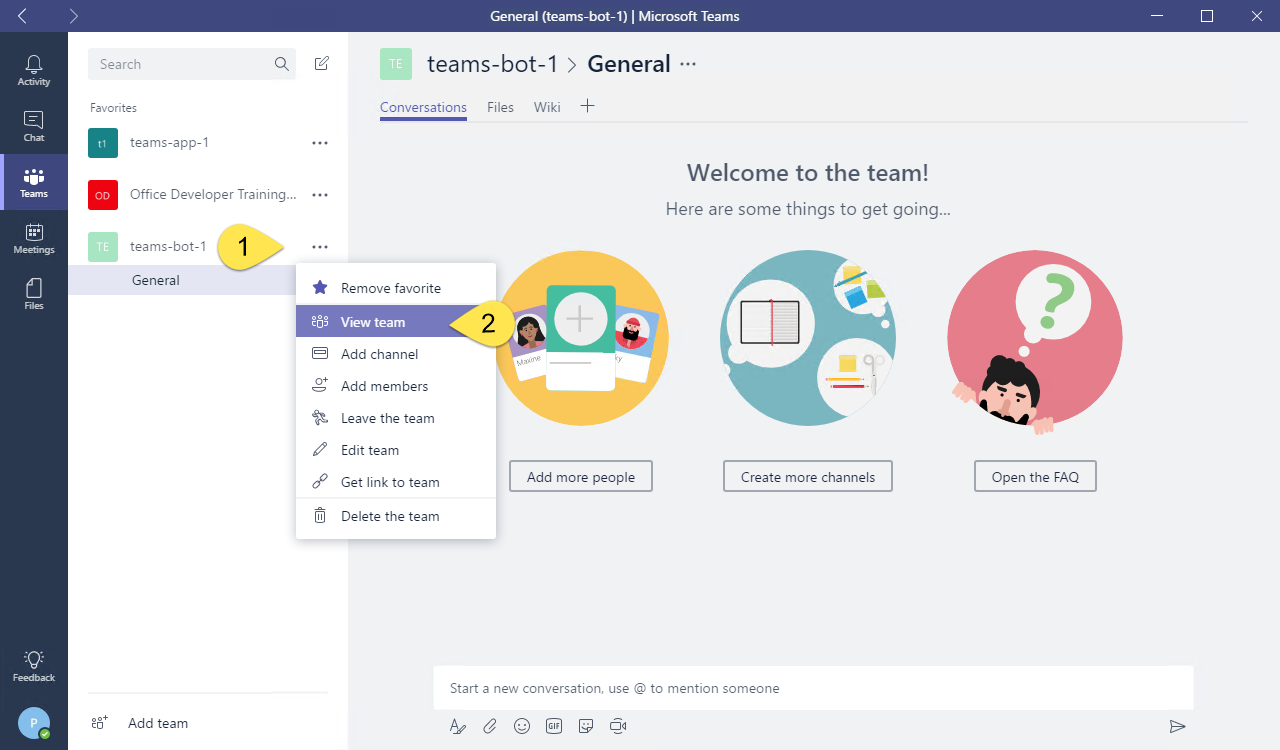
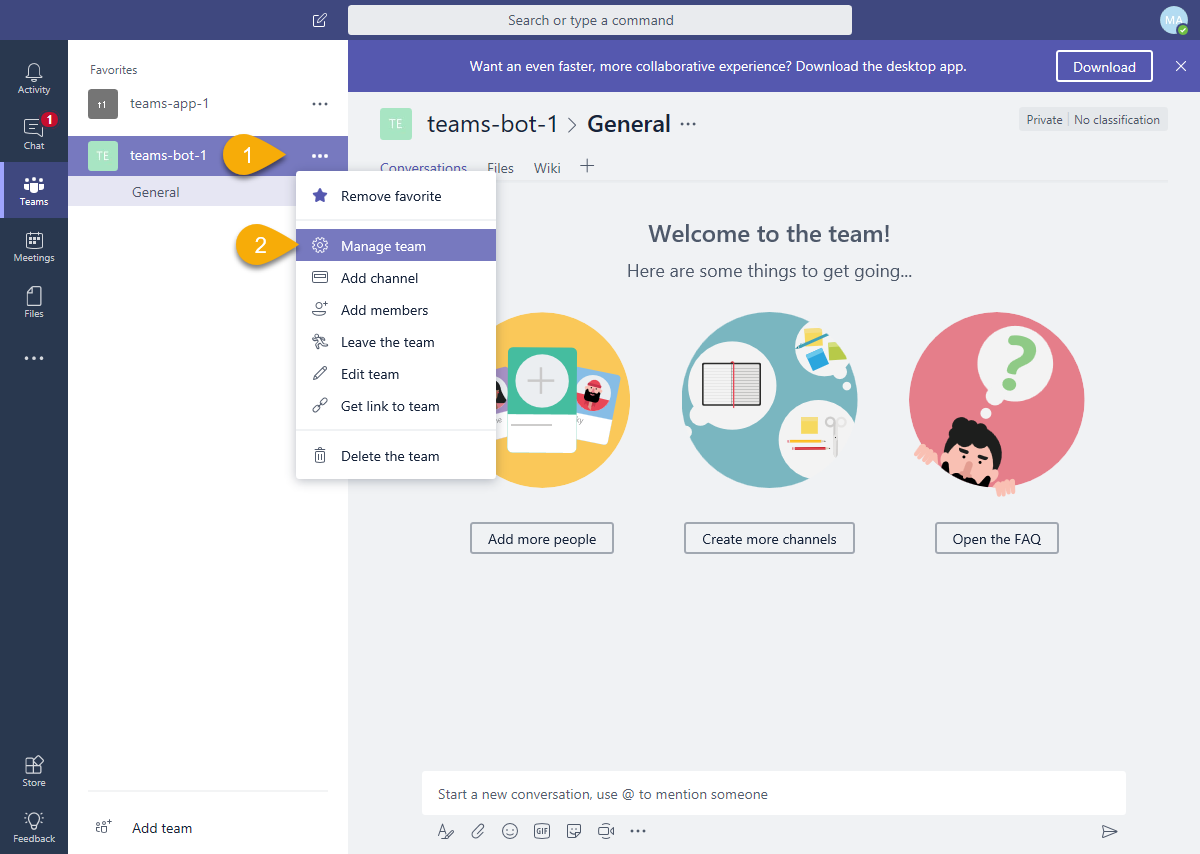
teams-m05-201803-refresh
- ran lab
- verified & updated where appropriate screenshots and instructions are current

diff --git a/Teams/05 Microsoft Teams apps - Advanced Techniques/Demos/03 - teams-bot2/teams-bot2/Controllers/ConnectorController.cs b/Teams/05 Microsoft Teams apps - Advanced Techniques/Demos/03 - teams-bot2/teams-bot2/Controllers/ConnectorController.cs
@@ -18,9 +18,7 @@ namespace teams_bot2.Controllers
 			var htmlBody = "<html><title>Set up connector</title><body>";
 			htmlBody += "<H2>Adding your Connector Portal-registered connector</H2>";
 			htmlBody += "<p>Click the button to initiate the registration and consent flow for the connector in the selected channel.</p>";
-			htmlBody += "<a href='https://outlook.office.com/connectors/Connect?state=myAppsState&app_id=[ConnectorID]&callback_url=[copy-from-ngrok]/api/connector/redirect'>";
-			htmlBody += "<img src='https://o365connectors.blob.core.windows.net/images/ConnectToO365Button.png' alt='Connect to Office 365'></img >";
-			htmlBody += "</a>";
+			htmlBody += "";
 
 			var response = Request.CreateResponse(HttpStatusCode.OK);
 			response.Content = new StringContent(htmlBody);

diff --git a/Teams/05 Microsoft Teams apps - Advanced Techniques/Lab.md b/Teams/05 Microsoft Teams apps - Advanced Techniques/Lab.md
@@ -1,4 +1,5 @@
 # Microsoft Teams apps - Advanced Techniques
+
 In this lab, you will use advanced techniques to build a more-sophisticated bot, a compose extension and a Microsoft Teams app that has multiple components.
 
 ## Table of Contents
@@ -9,9 +10,10 @@ In this lab, you will use advanced techniques to build a more-sophisticated bot,
 
 ## Prerequisites
 
-Refer to the Prerequisites section in the [lab manual for Module 4](../04 Fundamentals of Microsoft Teams).
+Refer to the Prerequisites section in the [lab manual for Module 4](../04 Fundamentals of Microsoft Teams/Lab.md#prerequisites).
 
 <a name="exercise1"></a>
+
 ## Exercise 1: Advanced Teams Bot capabilities
 
 This section of the lab creates a Bot Framework bot and extends it with Microsoft Teams functionality. In this exercise, you will create a bot to interact with the Teams API.
@@ -51,9 +53,8 @@ Before registering the bot, note the URL configured for the solution in Visual S
 
 ### Register the bot
 
-1. Go to the Microsoft Bot Framework portal at https://dev.botframework.com and sign in. (The bot registration portal accepts a Work or School Account or a Microsoft Account.)
-1. Click **Register**. (If the Register button is not shown, click **My bots** in the top navigation.)
-1. Complete the Bot profile section, entering a Display name, Bot handle and description.
+1. Go to the Microsoft Bot Framework portal at https://dev.botframework.com/bots/new and sign in. (The bot registration portal accepts a Work or School Account or a Microsoft Account.)
+1. Complete the Bot profile section, entering a Display name, unique Bot handle and description.
 
     ![](Images/Exercise1-04.png)
 
@@ -99,7 +100,7 @@ Packaging a bot for Microsoft Teams requires that a manifest file (and related r
 
 Perform the following in Visual Studio.
 
-1.  Right-click on the project, choose Add | New Folder. Name the folder **Manifest**.
+1. Right-click on the project, choose Add | New Folder. Name the folder **Manifest**.
 1. Add the displayed files from the **Lab Files** folder of this repository.
 
     ![](Images/Exercise1-08.png)
@@ -177,18 +178,18 @@ Perform the following in Visual Studio.
 
 The Microsoft Teams engineering group built and maintains extensions to the Bot Builder SDK. These packages (for .Net  and Node.js) extend the basic Bot Builder classes and methods with the following:
 
-* Specialized Teams card types like the Office 365 Connector card
-* Consuming and setting Teams-specific channel data on activities
-* Processing compose extension requests
-* Handling rate limiting
+- Specialized Teams card types like the Office 365 Connector card
+- Consuming and setting Teams-specific channel data on activities
+- Processing compose extension requests
+- Handling rate limiting
 
 Both packages install dependencies, including the Bot Builder SDK.
 
 In Visual Studio, install the **Microsoft.Bot.Connector.Teams** package via the **Package Manager Console**:
 
-```powershell
-Install-Package Microsoft.Bot.Connector.Teams
-```
+  ```powershell
+  Install-Package Microsoft.Bot.Connector.Teams
+  ```
 
 ### Update bot to send 1:1 message when added and to new team members
 
@@ -336,11 +337,11 @@ Although not strictly necessary, in this lab the bot will be added to a new Team
 
 1. Enter a team name and description. In this example, the Team is named **teams-bot-1**. Click **Next**.
 1. Optionally, invite others from your organization to the team. This step can be skipped in this lab.
-1. The new team is shown. In the left-side panel, click the ellipses next to the team name. Choose **View team** from the context menu.
+1. The new team is shown. In the left-side panel, click the ellipses next to the team name. Choose **Manage team** from the context menu.
 
     ![](Images/Exercise1-12.png)
 
-1. On the View team display, click **Apps** in the tab strip. Then click the **Sideload an app** link at the bottom right corner of the application.
+1. On the Manage team display, click **Apps** in the tab strip. Then click the **Upload a custom app** link at the bottom right corner of the application.
 1. Select the zip file (**teams-bot1.zip** in this example) from the *bin* folder. Click **Open**.
 1. The app is displayed. Notice information about the app from the manifest (Description and Icon) is displayed.
 
@@ -625,7 +626,11 @@ This section of the lab extends the bot from Exercise 1 with Microsoft Teams fun
           break;
 
         case ActivityTypes.Invoke:
-          await ComposeHelpers.HandleInvoke(activity);
+          var composeResponse = await ComposeHelpers.HandleInvoke(activity);
+          var stringContent = new StringContent(composeResponse);
+          HttpResponseMessage httpResponseMessage = new HttpResponseMessage(HttpStatusCode.OK);
+          httpResponseMessage.Content = stringContent;
+          return httpResponseMessage;
           break;
 
         default:
@@ -816,6 +821,7 @@ The Compose Extension is configured for use in a Channel (due to the scopes ente
 This concludes Exercise 2.
 
 <a name="exercise3"></a>
+
 ## Exercise 3: Microsoft Teams Apps with multiple capabilities
 
 This section of the lab creates a Microsoft Teams app from the Tab and Bot created previously along with a connector.
@@ -832,7 +838,7 @@ In Microsoft Teams, full functionality for Office 365 Connectors is restricted t
 
     ![](Images/Exercise3-01.png)
 
-1. Select **Incoming Webhook** from the list, then click **Add**.
+1. Find **Incoming Webhook** in the list, click **Add** then **Install**.
 
   ![](Images/Exercise3-02.png)
 
@@ -848,8 +854,8 @@ In Microsoft Teams, full functionality for Office 365 Connectors is restricted t
 
     ```powershell
     $message = Get-Content .\sample-connector-message.json
-    $url = <YOUR WEBHOOK URL>
-    Invoke-RestMethod -ContentType="application/json" -Body $message -Uri <YOUR WEBHOOK URL> -Method Post
+    $url = "<YOUR WEBHOOK URL>"
+    Invoke-RestMethod -ContentType "application/json" -Body $message -Uri $url -Method Post
     ```
 
     ![](Images/Exercise3-03.png)
@@ -872,12 +878,13 @@ In Microsoft Teams, full functionality for Office 365 Connectors is restricted t
 1. Minimize the ngrok Command Prompt window. It is no longer referenced in this lab, but it must remain running.
 
 ### Office 365 Connector registration
+
 The following steps are used to register an Office 365 Connector.
 
 1. Register the Connector on the [Connectors Developer Dashboard](https://go.microsoft.com/fwlink/?LinkID=780623). Log on the the site and click **New Connector**.
 1. On the **New Connector** page:
 
-    1. Complete the Name and Description as appropriate for your connector.
+    1. Complete the Name and Description as appropriate for your connector. Upload the **bot-icon-blue-300x300.png** from the Lab Files folder for your logo.
 
         ![](Images/Exercise3-05.png)
 
@@ -897,7 +904,7 @@ The following steps are used to register an Office 365 Connector.
 
     1. Agree to the terms and conditions and click **Save**
 
-1. The registration page will refresh with additional buttons in the integration section. The buttons provide sample code for the **Landing** page and a `manifest.json` file for a Teams app. Save both of these assets.
+1. The registration page will refresh with additional buttons in the integration section. The buttons provide sample code for the **Landing** page and a `manifest.json` file for a Teams app. Save both of these assets. In a text editor paste the Landing page code copied from the registration page and replace all of the double quotes `"` with the single quote character `'`. You will need this code in a moment.
 
 ### Add Connector to existing Bot
 
@@ -924,7 +931,7 @@ In Visual Studio 2017, open the **teams-bot2** solution from the `Demos/02 - tea
     using System.Net.Http.Headers;
     ```
 
-1. Add the following `Landing` method to the `ConnectorController`.
+1. Add the following `Landing` method to the `ConnectorController` class.
 
     ```cs
     [HttpGet]
@@ -933,9 +940,7 @@ In Visual Studio 2017, open the **teams-bot2** solution from the `Demos/02 - tea
       var htmlBody = "<html><title>Set up connector</title><body>";
       htmlBody += "<H2>Adding your Connector Portal-registered connector</H2>";
       htmlBody += "<p>Click the button to initiate the registration and consent flow for the connector in the selected channel.</p>";
-      htmlBody += "<a href='https://outlook.office.com/connectors/Connect?state=myAppsState&app_id=ef5b13e5-261c-47f3-a7a8-6f00ef3b9930&callback_url=https://1ad3dcd5.ngrok.io/api/connector/redirect'>";
-      htmlBody += "<img src='https://o365connectors.blob.core.windows.net/images/ConnectToO365Button.png' alt='Connect to Office 365'></img >";
-      htmlBody += "</a>";
+      htmlBody += "[Landing Page Code]";
 
       var response = Request.CreateResponse(HttpStatusCode.OK);
       response.Content = new StringContent(htmlBody);
@@ -943,7 +948,7 @@ In Visual Studio 2017, open the **teams-bot2** solution from the `Demos/02 - tea
       return response;
     }
     ```
-
+1. Replace the `[Landing Page Code]` token with the landing page code you edited previously.
 1. Add the following `Redirect` method to the `ConnectorController` class.
 
     ```cs
@@ -989,11 +994,11 @@ In Visual Studio 2017, open the **teams-bot2** solution from the `Demos/02 - tea
 
     ![](Images/Exercise3-10.png)
 
-1. Click the **Connect to Office 365** button. Office 365 will process the registration flow, which may include login and Team/Channel selection. Make note of teh selected Teamd-Channel and click **Allow**.
+1. Click the **Connect to Office 365** button. Office 365 will process the registration flow, which may include login and Team/Channel selection. Make note of the selected Team-Channel and click **Allow**.
 
     ![](Images/Exercise3-12.png)
 
-1. The dialog will display the **Redirect** action which presents the information registration provided by Office 365. In a production application, this information must be presisted and used to sent notifications to the channel.
+1. The dialog will display the **Redirect** action which presents the information registration provided by Office 365. In a production application, this information must be persisted and used to sent notifications to the channel.
 
     ![](Images/Exercise3-13.png)
 

diff --git a/Teams/05 Microsoft Teams apps - Advanced Techniques/Demos/03 - teams-bot2/Readme.md b/Teams/05 Microsoft Teams apps - Advanced Techniques/Demos/03 - teams-bot2/Readme.md
@@ -27,9 +27,9 @@ To run this demo, perform the following steps from the lab:
 
 ### Register the bot ###
 
-1. Go to the Microsoft Bot Framework portal at https://dev.botframework.com and sign in. (The bot registration portal accepts a Work or School Account or a Microsoft Account.)
-1. Click **Register**. (If the Register button is not shown, click **My bots** in the top navigation.)
-1. Complete the Bot profile section, entering a Display name, Bot handle and description.
+1. Go to the Microsoft Bot Framework portal at https://dev.botframework.com/bots/new and sign in. (The bot registration portal accepts a Work or School Account or a Microsoft Account.)
+
+1. Complete the Bot profile section, entering a Display name, unique Bot handle and description.
 
     ![](../../Images/Exercise1-04.png)
 
@@ -64,7 +64,7 @@ The following steps are used to register an Office 365 Connector.
 1. Register the Connector on the [Connectors Developer Dashboard](https://go.microsoft.com/fwlink/?LinkID=780623). Log on the the site and click **New Connector**.
 1. On the **New Connector** page:
 
-    1. Complete the Name and Description as appropriate for your demo.
+    1. Complete the Name and Description as appropriate for your demo. Upload the **bot-icon-blue-300x300.png** from the Lab Files folder for your logo.
 
         ![](../../Images/Exercise3-05.png)
 
@@ -84,7 +84,7 @@ The following steps are used to register an Office 365 Connector.
 
     1. Agree to the terms and conditions and click **Save**
 
-1. The registration page will refresh with additional buttons in the integration section. The buttons provide sample code for the **Landing** page and a `manifest.json` file for a Teams app. **Save both of these assets.**
+1. The registration page will refresh with additional buttons in the integration section. The buttons provide sample code for the **Landing** page and a `manifest.json` file for a Teams app. **Save both of these assets.** In a text editor paste the Landing page code copied from the registration page and replace all of the double quotes `"` with the single quote character `'`. You will need this code in a moment.
 
 ### Configure the web project
 
@@ -110,17 +110,18 @@ Packaging a bot for Microsoft Teams requires that a manifest file (and related r
     - The `botId` property (in the `bots` collection property) also requires the app ID from registration. Replace the token `[microsoft-app-id]` with the app ID.
     - Replace the empty `connectors` node in the `manifest.json` file with the `connectors` node from the manifest downloaded from the Connector registration.
     - Save and close the `manifest.json` file.
+1. Open the `Controllers\ConnectorController.cs` file and replace the `[Landing Page Code]` token with the landing page code you edited previously.
 1. Press **Ctrl+Shift+B** to build the project. The build will create a zip file in the build output folder (bin\\).
 
 ## Start the demo
 
 ### Sideload app into Microsoft Teams
 
-1. In the Microsoft Teams application, in the left-side panel, click the ellipses next to the team name. Choose **View team** from the context menu.
+1. In the Microsoft Teams application, in the left-side panel, click the ellipses next to the team name. Choose **Manage team** from the context menu.
 
     ![](../../Images/Exercise1-12.png)
 
-1. On the View team display, click **Apps** in the tab strip. Then click the **Sideload an app** link at the bottom right corner of the application.
+1. On the Manage team display, click **Apps** in the tab strip. Then click the **Upload a custom app** link at the bottom right corner of the application.
 1. Select the zip file (**teams-bot1.zip** in this example) from the `bin` folder. Click **Open**.
 1. The app is displayed. Notice information about the app from the manifest (Description and Icon) is displayed.
 
@@ -144,11 +145,11 @@ All members of the team should get a 1:1 message.
 
     ![](../../Images/Exercise3-10.png)
 
-1. Click the **Connect to Office 365** button. Office 365 will process the registration flow, which may include login and Team/Channel selection. Make note of teh selected Teamd-Channel and click **Allow**.
+1. Click the **Connect to Office 365** button. Office 365 will process the registration flow, which may include login and Team/Channel selection. Make note of the selected Team-Channel and click **Allow**.
 
     ![](../../Images/Exercise3-12.png)
 
-1. The dialog will display the **Redirect** action which presents the information registration provided by Office 365. In a production application, this information must be presisted and used to sent notifications to the channel.
+1. The dialog will display the **Redirect** action which presents the information registration provided by Office 365. In a production application, this information must be persisted and used to sent notifications to the channel.
 
     ![](../../Images/Exercise3-13.png)
 

diff --git a/Teams/05 Microsoft Teams apps - Advanced Techniques/Demos/01 - teams-bot2/Readme.md b/Teams/05 Microsoft Teams apps - Advanced Techniques/Demos/01 - teams-bot2/Readme.md
@@ -2,7 +2,7 @@
 
 There are multiple demos in this section. The code in the Demos folder and these setup steps are the same for both demos.
 
-# Demo Setup
+## Demo Setup
 
 To setup the demos, perform the following steps from the lab:
 
@@ -31,9 +31,8 @@ To setup the demos, perform the following steps from the lab:
 
 ### Register the bot
 
-1. Go to the Microsoft Bot Framework portal at https://dev.botframework.com and sign in. (The bot registration portal accepts a Work or School Account or a Microsoft Account.)
-1. Click **Register**. (If the Register button is not shown, click **My bots** in the top navigation.)
-1. Complete the Bot profile section, entering a Display name, Bot handle and description.
+1. Go to the Microsoft Bot Framework portal at https://dev.botframework.com/bots/new and sign in. (The bot registration portal accepts a Work or School Account or a Microsoft Account.)
+1. Complete the Bot profile section, entering a Display name, unique Bot handle and description.
 
     ![](../../Images/Exercise1-04.png)
 
@@ -87,15 +86,15 @@ Packaging a bot for Microsoft Teams requires that a manifest file (and related r
 
 1. Press **Ctrl+Shift+B** to build the project. The build will create a zip file in the build output folder (`bin`).
 
-# Demo: Responding to Events
+## Demo: Responding to Events
 
 ### Sideload app into Microsoft Teams
 
-1. In the Microsoft Teams application, in the left-side panel, click the ellipses next to the team name. Choose **View team** from the context menu.
+1. In the Microsoft Teams application, in the left-side panel, click the ellipses next to the team name. Choose **Manage team** from the context menu.
 
     ![](../../Images/Exercise1-12.png)
 
-1. On the View team display, click **Apps** in the tab strip. Then click the **Sideload an app** link at the bottom right corner of the application.
+1. On the Manage team display, click **Apps** in the tab strip. Then click the **Upload a custom app** link at the bottom right corner of the application.
 1. Select the zip file (`teams-bot1.zip` in this example) from the `bin` folder. Click **Open**.
 1. The app is displayed. Notice information about the app from the manifest (Description and Icon) is displayed.
 
@@ -111,7 +110,7 @@ Adding the bot to a team invokes the system message **ConversationUpdated**. The
 
 Code for responding to events is in the `MessagesController` class.
 
-# Demo: Advanced Message Features
+## Demo: Advanced Message Features
 
 Perform the following in a channel where the bot has been sideloaded. Be sure to @ mention the bot in each message
 

diff --git a/Teams/05 Microsoft Teams apps - Advanced Techniques/Demos/02 - teams-bot2/Readme.md b/Teams/05 Microsoft Teams apps - Advanced Techniques/Demos/02 - teams-bot2/Readme.md
@@ -27,9 +27,8 @@ To run this demo, perform the following steps from the lab:
 
 ### Register the bot
 
-1. Go to the Microsoft Bot Framework portal at https://dev.botframework.com and sign in. (The bot registration portal accepts a Work or School Account or a Microsoft Account.)
-1. Click **Register**. (If the Register button is not shown, click **My bots** in the top navigation.)
-1. Complete the Bot profile section, entering a Display name, Bot handle and description.
+1. Go to the Microsoft Bot Framework portal at https://dev.botframework.com/bots/new and sign in. (The bot registration portal accepts a Work or School Account or a Microsoft Account.)
+1. Complete the Bot profile section, entering a Display name, unique Bot handle and description.
 
     ![](../../Images/Exercise1-04.png)
 
@@ -84,11 +83,11 @@ Packaging a bot for Microsoft Teams requires that a manifest file (and related r
 
 ### Sideload app into Microsoft Teams
 
-1. In the Microsoft Teams application, in the left-side panel, click the ellipses next to the team name. Choose **View team** from the context menu.
+1. In the Microsoft Teams application, in the left-side panel, click the ellipses next to the team name. Choose **Manage team** from the context menu.
 
     ![](../../Images/Exercise1-12.png)
 
-1. On the View team display, click **Apps** in the tab strip. Then click the **Sideload an app** link at the bottom right corner of the application.
+1. On the Manage team display, click **Apps** in the tab strip. Then click the **Upload a custom app** link at the bottom right corner of the application.
 1. Select the zip file (`teams-bot1.zip` in this example) from the `bin` folder. Click **Open**.
 1. The app is displayed. Notice information about the app from the manifest (Description and Icon) is displayed.
 

diff --git a/Teams/README.md b/Teams/README.md
@@ -1,9 +1,8 @@
-# Introduction to Microsoft Teams Development #
+# Introduction to Microsoft Teams Development
 
 ----------
 
 This GitHub repo houses all of the content for the "Introduction to Microsoft Teams" training.
-
 
 - [Tabs in Microsoft Teams](01%20Tabs/Lab.md)
 - [Connectors in Microsoft Teams](02%20Connectors/Lab.md)
@@ -11,6 +10,6 @@ This GitHub repo houses all of the content for the "Introduction to Microsoft Te
 
 ----------
 
-Feel free to use this material anyway you want for self-study or for delivering trainings for others. You can also use bits and pieces of this material anyway you want with blogs, presentations and also re-use this material in any other training. Please give us also feedback and suggestions on the material, so that we can improve the base material also for others. 
+Feel free to use this material anyway you want for self-study or for delivering trainings for others. You can also use bits and pieces of this material anyway you want with blogs, presentations and also re-use this material in any other training. Please give us also feedback and suggestions on the material, so that we can improve the base material also for others.
 
 *"Sharing is caring!"*

diff --git a/Teams/05 Microsoft Teams apps - Advanced Techniques/Readme.md b/Teams/05 Microsoft Teams apps - Advanced Techniques/Readme.md
@@ -1,5 +1,4 @@
 # Microsoft Teams apps - Advanced Techniques
-----------
 
 ## Lab - Microsoft Teams apps - Advanced Techniques
 
@@ -23,10 +22,12 @@ In this lab, you will use advanced techniques to build a more-sophisticated bot,
 
 ## Version history
 
-| Version |      Date       |    Comments     |
-| ------- | --------------- | --------------- |
-| 1.0.1   | October 9, 2017 | Typo & bugfixes |
-| 1.0     | October 6, 2017 | Initial release |
+| Version |       Date        |             Comments              |
+| ------- | ----------------- | --------------------------------- |
+| 1.2     | February 25, 2018 | Code Review and minor corrections |
+| 1.0.1   | October 9, 2017   | Typo & bugfixes                   |
+| 1.0     | October 6, 2017   | Initial release                   |
 
 ## Disclaimer
+
 **THIS CODE IS PROVIDED *AS IS* WITHOUT WARRANTY OF ANY KIND, EITHER EXPRESS OR IMPLIED, INCLUDING ANY IMPLIED WARRANTIES OF FITNESS FOR A PARTICULAR PURPOSE, MERCHANTABILITY, OR NON-INFRINGEMENT.**
